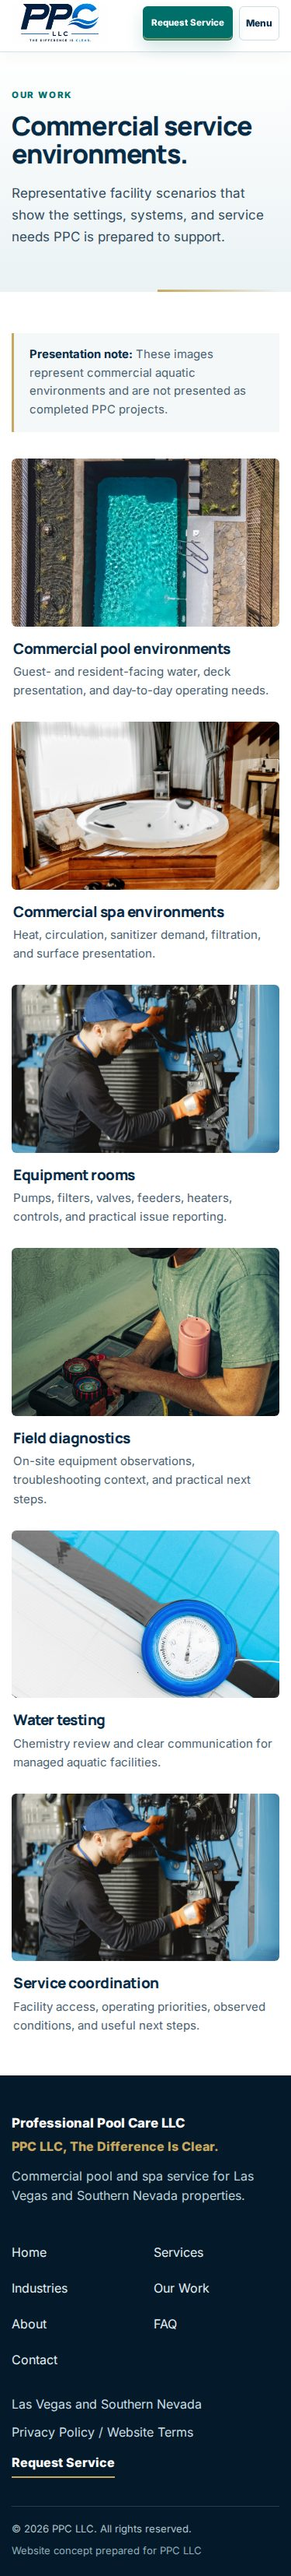
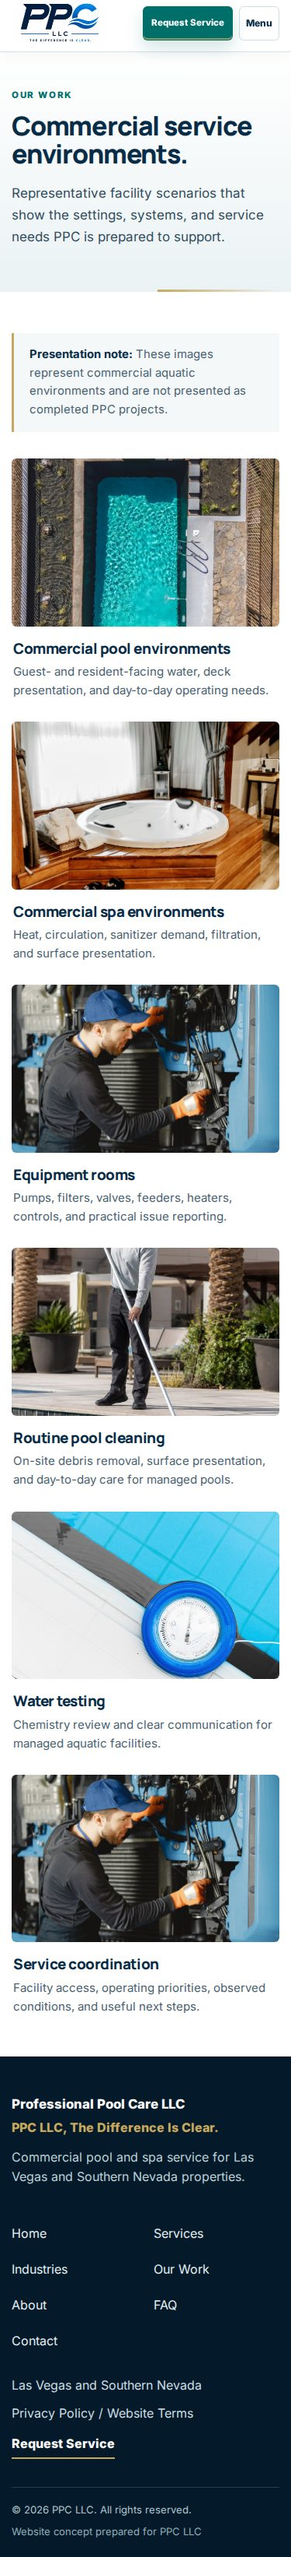
Update image documentation and review screenshots

diff --git a/images/README.md b/images/README.md
@@ -16,7 +16,7 @@ These are temporary royalty-free Pexels images saved locally in compressed, web-
 - `commercial-hotel-spa.jpg` - Commercial hotel spa environment image. Source: Pexels photo 3101547.
 - `commercial-equipment-room-service.jpg` - Commercial equipment room and service technician image. Source: Pexels photo 6720526.
 - `commercial-water-testing.jpg` - Pool thermometer and water-condition image. Source: Pexels photo 8028684.
-- `commercial-surface-cleaning.jpg` - Field equipment / diagnostic technician image (legacy filename). Source: Pexels photo 6471914.
+- `commercial-surface-cleaning.jpg` - Representative commercial pool-cleaning technician image (legacy filename). AI-generated for this presentation concept on 2026-08-06.
 - `apartment-community-pool-deck.jpg` - Managed apartment community / commercial amenity pool deck image. Source: Pexels photo 29851842.
 
 ## Replacement requirement
